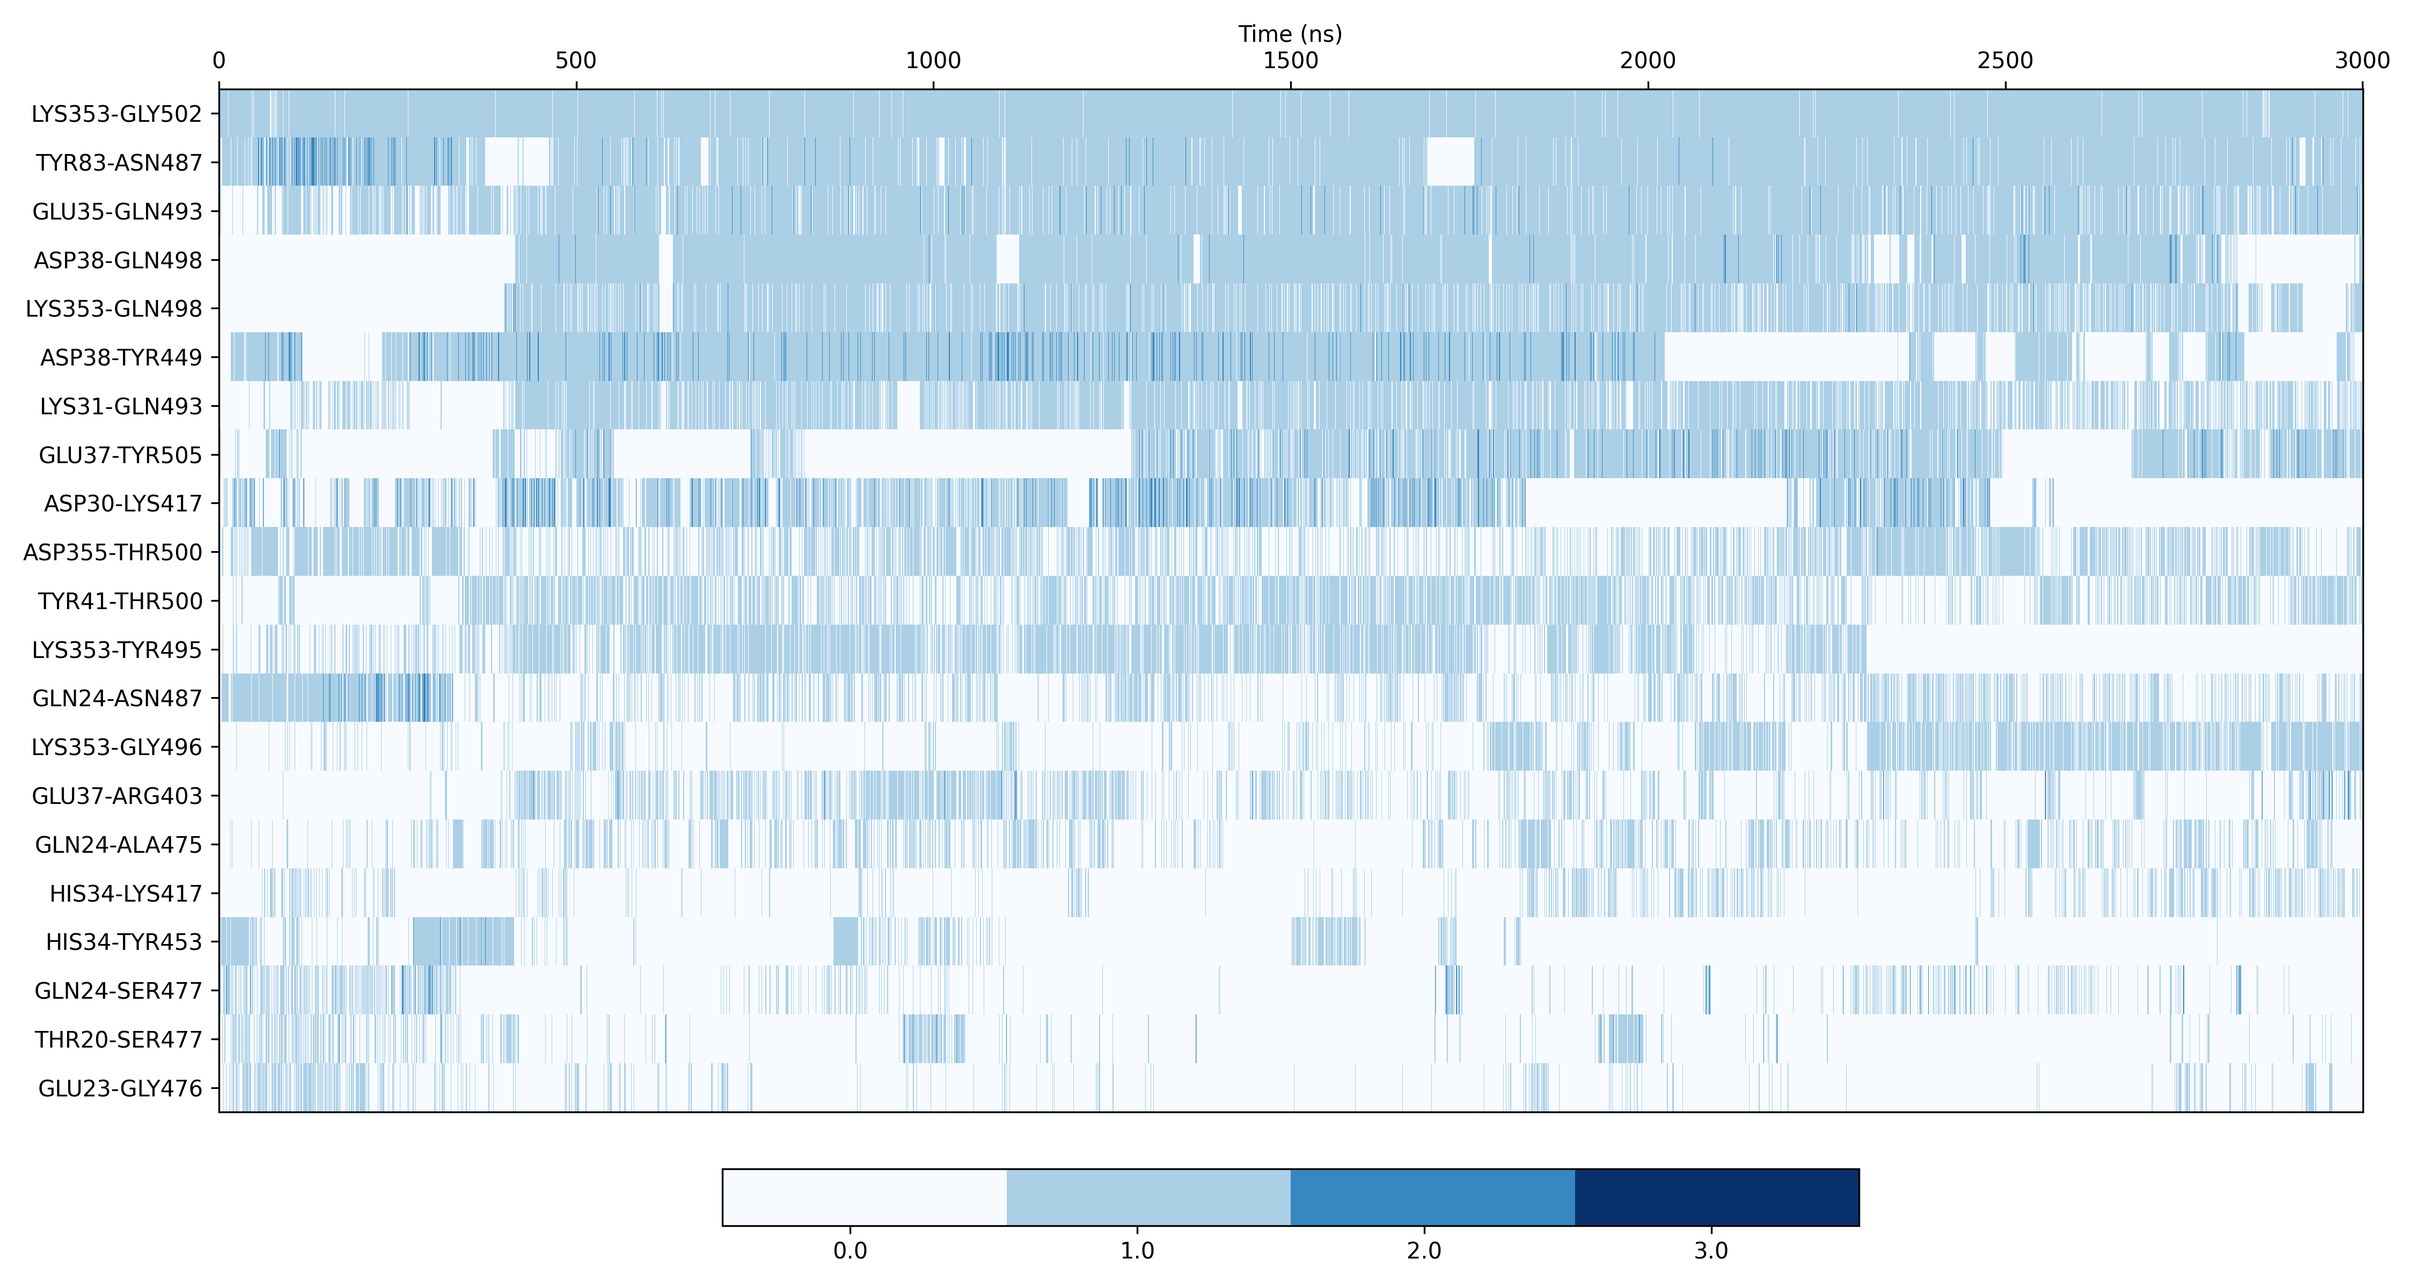
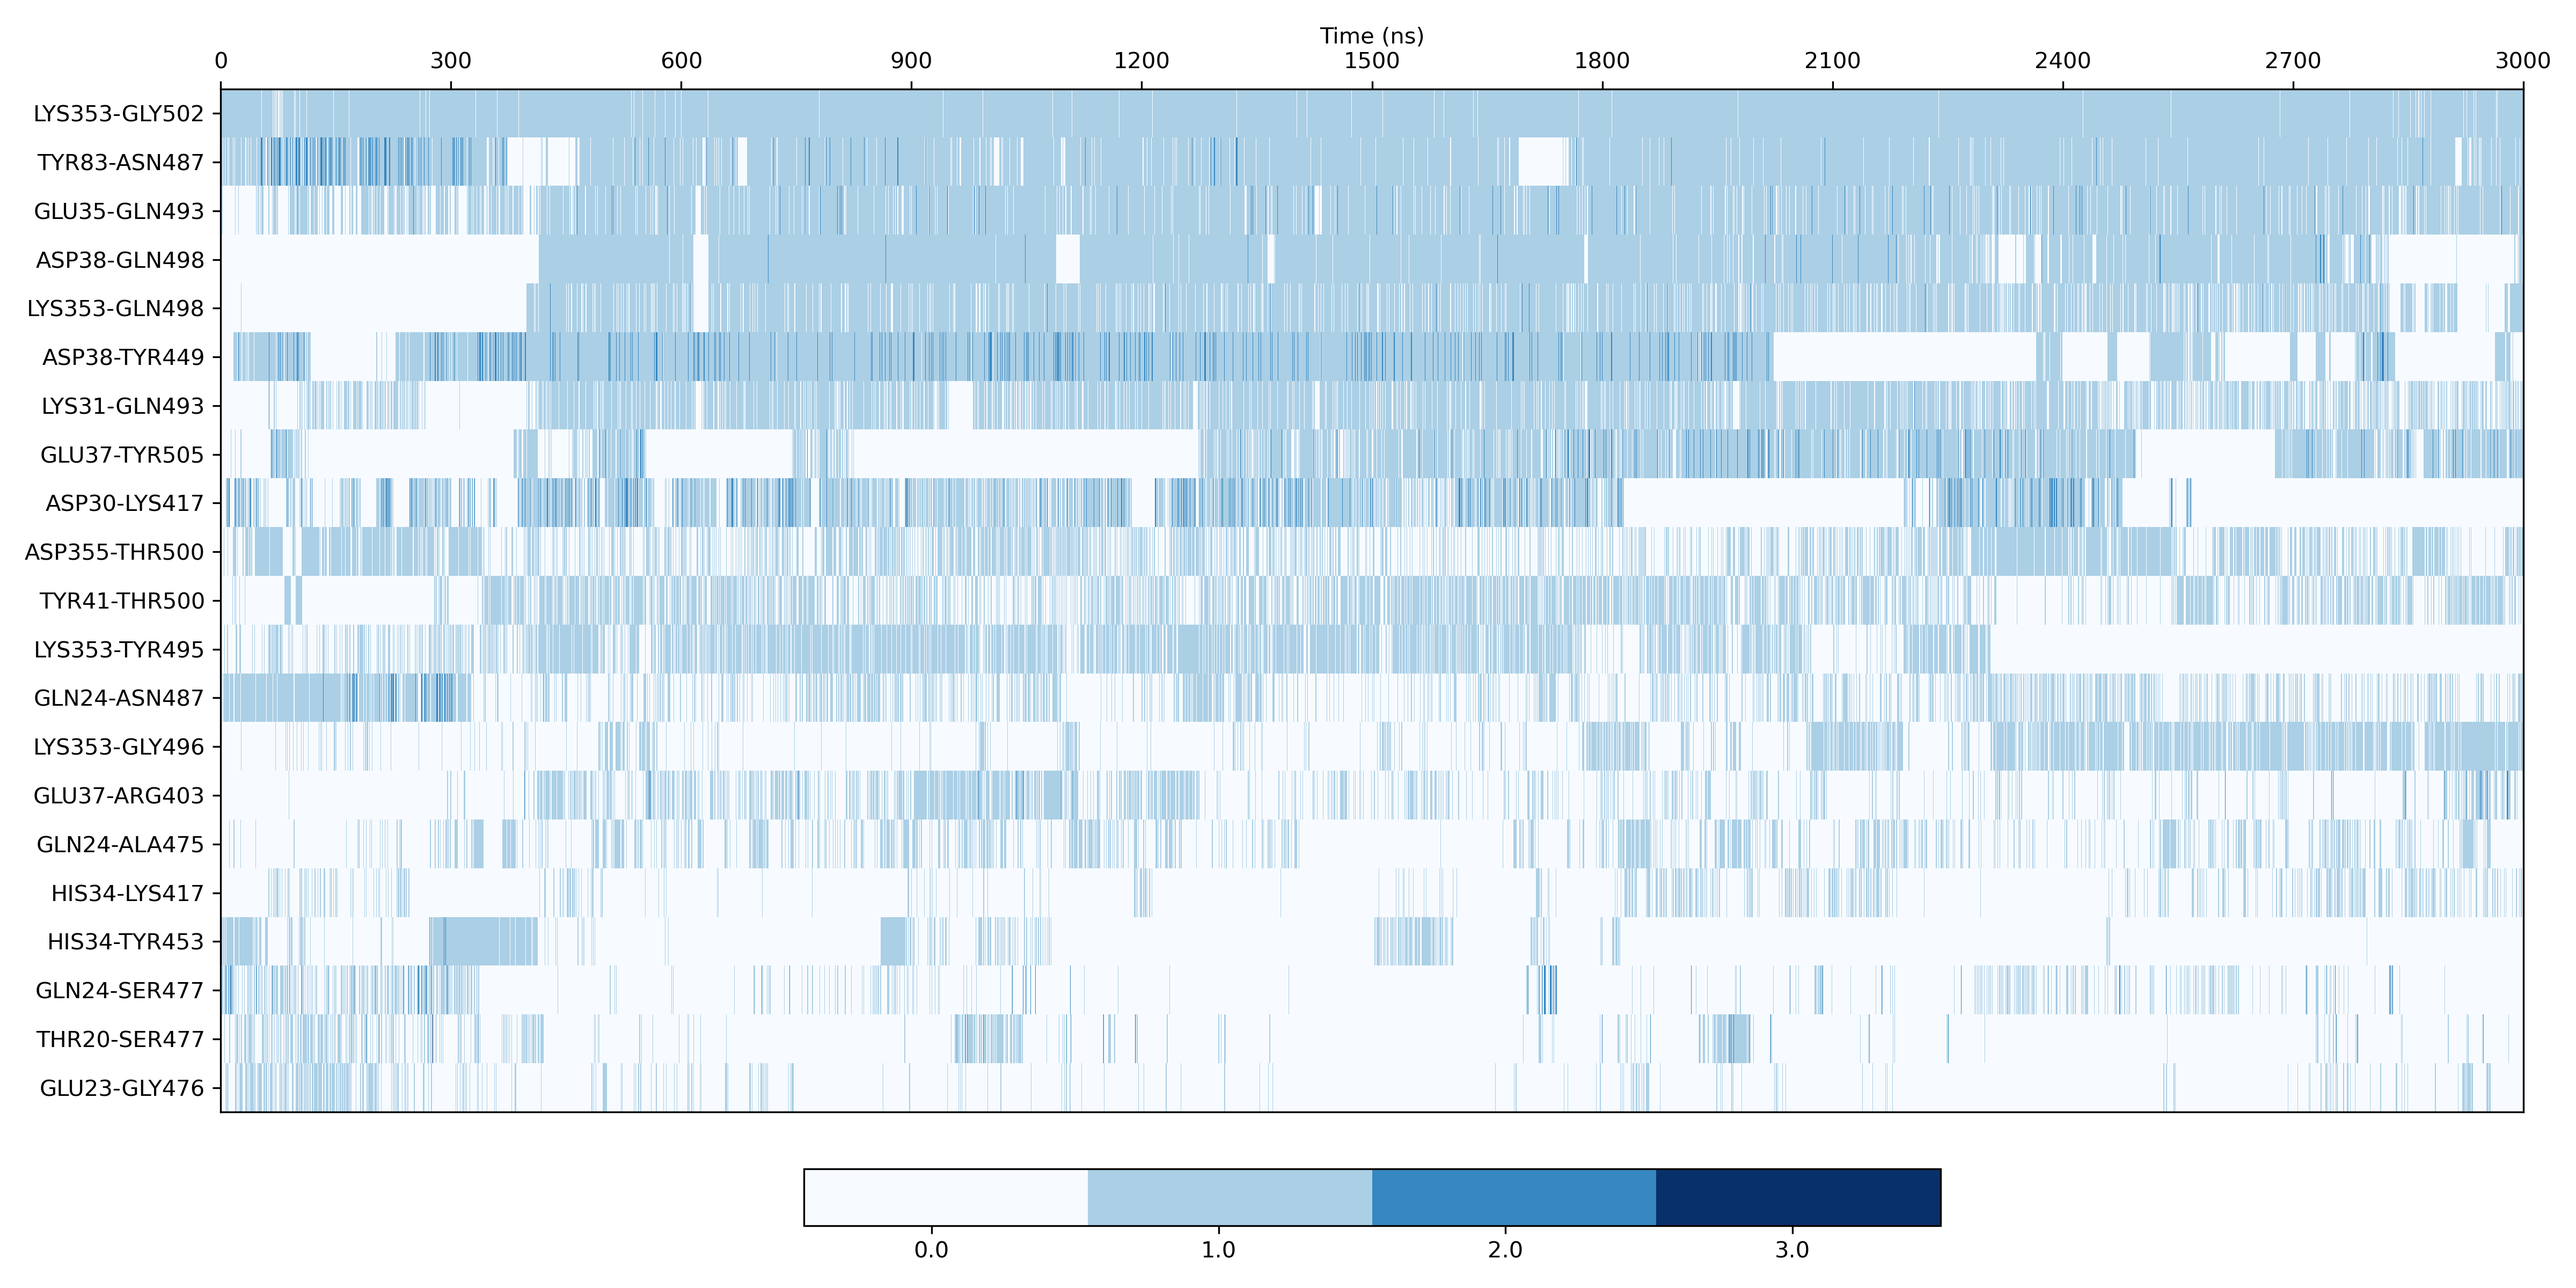
almost done

diff --git a/time_series.py b/time_series.py
@@ -111,7 +111,7 @@ def save_plot_matrix(matrix,cmap,names,frames,dt,output):
 	'''
 	upper_lim = np.max(matrix)
 	cmap = plt.get_cmap(cmap, upper_lim+1)
-	fig = plt.figure(figsize = (15,8))
+	fig = plt.figure(figsize = (16,8))
 	fig = plt.imshow(matrix,interpolation='none',cmap=cmap, aspect = 'auto')
 	ax = plt.gca()
 	cbar = plt.colorbar(fig, fraction=0.05, pad=0.05, orientation = 'horizontal', ticks=np.arange(0.45,upper_lim+1,1.01))
@@ -119,7 +119,7 @@ def save_plot_matrix(matrix,cmap,names,frames,dt,output):
 	cbar.ax.set_xticklabels(np.arange(upper_lim+1))
 	ax.set_yticks(np.arange(len(names)))
 	ax.set_yticklabels(names)
-	ax.set_xticks(np.arange(0,frames,50000))
+	ax.set_xticks(np.arange(0,frames,frames//10))
 	x_labels = np.array(ax.get_xticks().tolist())*dt
 	ax.set_xticklabels(np.array(x_labels,dtype=int))
 	ax.xaxis.set_label_position('top')
@@ -140,8 +140,9 @@ def save_plot_total(series,out,sem):
 	plt.plot(x,y,color='coral')
 	plt.axhline(np.mean(y),0,1,color='k',ls='--')
 	plt.xlim(np.min(x),np.max(x))
+	plt.xlabel('Time (ns)')
 	label = str(round(np.mean(y),1))+r'$\pm$'+str(round(sem,1))
-	plt.text(np.max(x)+np.max(x)/100,np.mean(y),label)
+	plt.text(np.max(x)-np.max(x)/9,np.mean(y)*1.02,label)
 	plt.savefig(out+'.png',dpi=300,bbox_inches='tight')
 	return
 
@@ -149,14 +150,14 @@ def save_plot_block(blocks,error,block_mean,out):
 	'''
 	Plots the standard error of the mean as a function of block size
 	'''
-	fig = plt.figure(figsize = (7,4))
+	fig = plt.figure(figsize = (8,4))
 	plt.plot(blocks, error, color ='k')
 	plt.scatter(blocks, error, edgecolor = 'k', color = 'green', zorder=10)
-	plt.xlabel('Block Size (ns)')
-	plt.ylabel(r'SEM')
+	plt.xlabel('Block Size')
+	plt.ylabel('SEM')
 	plt.savefig(out+'block_average.png',dpi=300,bbox_inches='tight')
 
-	fig = plt.figure(figsize = (7,4))
+	fig = plt.figure(figsize = (8,4))
 	plt.errorbar(blocks, block_mean, yerr=error, capsize = 2, color ='coral')
 	plt.scatter(blocks, block_mean, edgecolor = 'k', color ='coral', zorder=10)
 	plt.xlabel('Block Size')
@@ -169,6 +170,7 @@ def make_block_average(data):
 	Block averaging procedure for a time series
 	'''
 	sdata = len(data)
+	# If size data is odd remove the first data point. Even data points divide better in equal size blocks
 	if sdata%2 == 1:
 		data = data[1:] 
 		sdata = sdata-1
